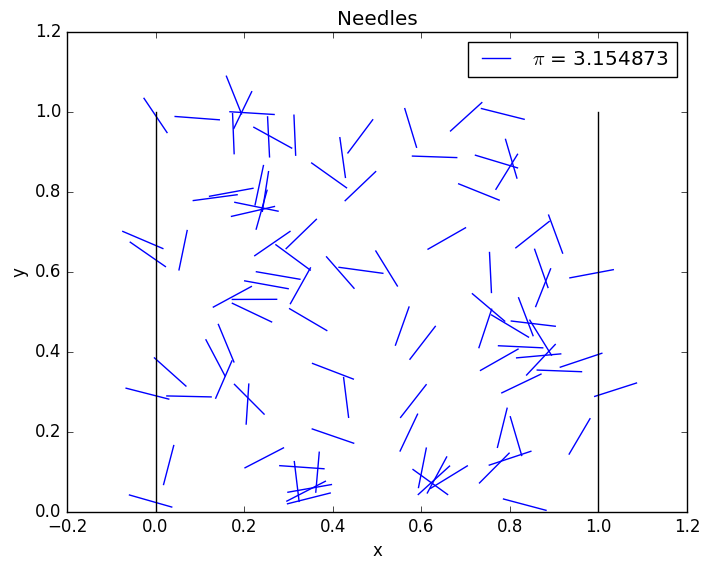
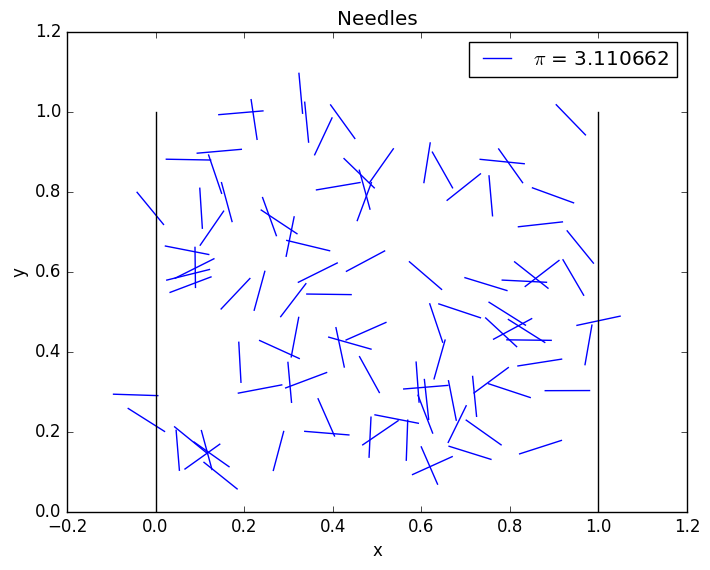
Gaussian probability added

diff --git a/BFgauss.py b/BFgauss.py
@@ -1,0 +1,75 @@
+import numpy as np
+import matplotlib.pyplot as plt
+import matplotlib.animation as animation
+
+
+
+N = 2000000
+
+x0 = 0
+x1 = 1
+y0 = 0
+y1 = 1
+l = 0.1
+sigma = 0.2
+mu = 0.5
+
+#Throwing the needles
+#x = np.random.uniform(x0, x1, size=N)
+#y = np.random.uniform(x0, x1, size=N)
+
+x = np.random.normal(mu, sigma, size=N)
+y = np.random.uniform(y0, y1, size=N)
+
+theta = np.random.uniform(0,np.pi, size=N)
+
+#Checking if they're crossing the lines
+n = 0
+for i in range(N):
+    if x[i]+l*np.cos(theta[i]) > x1:
+        n+=1
+    elif x[i]+l*np.cos(theta[i]) < x0:
+        n+=1
+#Experimental probability
+P = n/N
+print("Experimental probability")
+print(P)
+
+#Ptheo
+#Ptheo2
+#Without pi in the normalization factor
+Ptheo = 4*0.0258229/np.pi**(3.0/2.0)
+print("Theoretical probability")
+print(Ptheo)
+
+
+
+pi = (4.0*0.0258229/P)**(2.0/3.0)
+print('pi={}'.format(pi))
+
+
+#Let's make normal distribution function to plot
+xp = np.linspace(x.min(),x.max(),100)
+#with normalization (1/np.sqrt(2*np.pi*sigma**2))
+nplot = np.array(0.33*np.exp(-(xp-mu)**2/(2*sigma**2)))+0.5
+
+#Plotting 
+#plt.hold(True)
+fig = plt.figure()
+ax = plt.gca()
+ax.set_xlabel('x')
+ax.set_ylabel('y')
+ax.set_title('Needles')
+plt.axis([mu-5*sigma,mu+5*sigma,0-sigma,1+sigma])
+for i in range(int(np.floor(N/10000))):
+    ax.plot([x[i],x[i]+l*np.cos(theta[i])],[y[i],y[i]+l*np.sin(theta[i])],'b-')
+ax.plot([x0,x0],[y0,y1],'-',color='black')
+ax.plot([x1,x1],[y0,y1],'-',color='black')
+ax.plot(xp,nplot,color='blue')
+ax.legend(['$\pi$ = {0:2f}'.format(pi)])
+
+fig.savefig('MCBuffonGauss.png', bbox_inches='tight')
+plt.show() #fig.show() does not much?
+
+
+

diff --git a/README.md b/README.md
@@ -9,3 +9,9 @@ Some scripts based on Monte Carlo methods.
 
 ## Buffon's Needle
 ![MCbuffon.png](https://github.com/Bootlegg/MonteCarlo/blob/master/MCBuffon.png)
+
+##Buffon's Needle Normal Distribution
+Instead of using a uniform distribution to throw the needle, here are normal distributed needles. 
+Pi can still be calculated explicitly, but an approximation to the probability is used in practice,  
+since the normal distribution in essence goes to +- infinity. 
+![MCbuffon.png](https://github.com/Bootlegg/MonteCarlo/blob/master/MCBuffonGauss.png)
